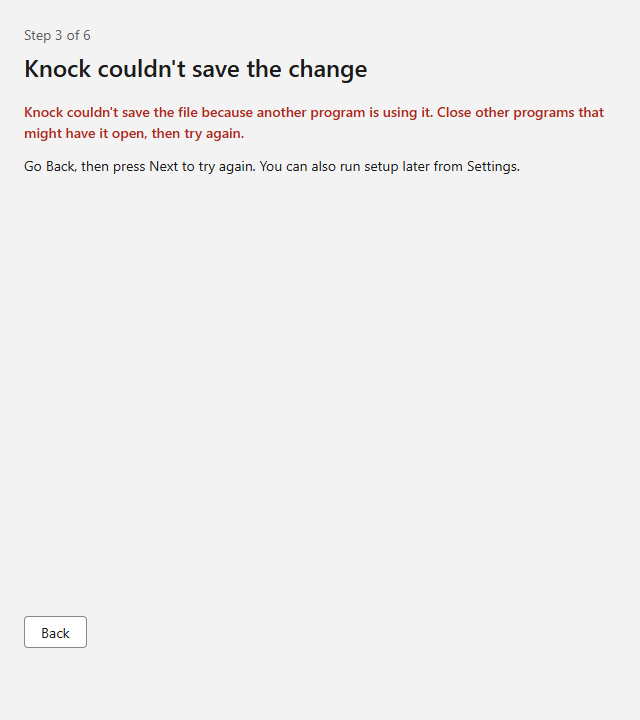
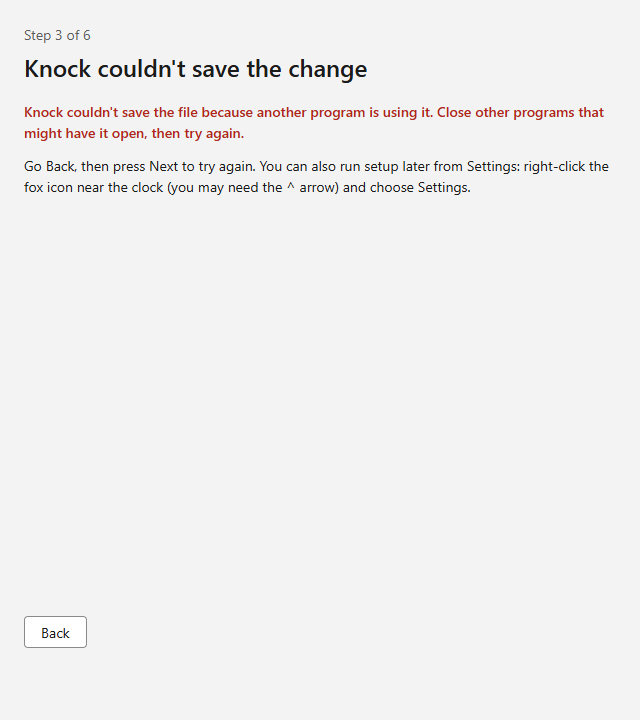
Settings screens: no-backup text, softer wording, tray hint, unique display labels

Changed region(s): [[0.0312, 0.2444, 0.4375, 0.275], [0.4688, 0.2444, 0.7188, 0.275], [0.8125, 0.2139, 0.9375, 0.2444]]

diff --git a/apps/desktop/ui/settings/visual/settings.visual.ts b/apps/desktop/ui/settings/visual/settings.visual.ts
@@ -80,6 +80,7 @@ const SCREENS: [string, string, string[]][] = [
 	["connect-invalid-json", "preview=invalid", ["Start", "Next"]],
 	["connect-write-failed", "apply=fail", TO_SIGNIN.slice(0, 3)],
 	["connected", "", TO_SIGNIN.slice(0, 3)],
+	["connected-no-backup", "empty=1", TO_SIGNIN.slice(0, 3)],
 	["signin", "", TO_SIGNIN],
 	["test", "", TO_TEST],
 	["test-played", "", [...TO_TEST, "Play a test knock"]],
@@ -151,16 +152,34 @@ test("setup skips the taskbar step with one display", async ({ page }) => {
 test("choosing a taskbar saves it right away", async ({ page }) => {
 	await open(page, "setup=1");
 	await click(page, "Start");
-	await page.getByLabel("Display 2, 1920 × 1080").check();
+	await page.getByLabel("Display 3: Generic PnP Monitor, 1920 × 1080").check();
 	expect(await calls(page)).toContainEqual([
 		"update_settings",
-		{ patch: { monitor: "monitor-BOE0A1C-2" } },
+		{ patch: { monitor: "monitor-GSM5B7F-3" } },
 	]);
 	await page.getByLabel("DELL U2720Q (main display), 2560 × 1440").check();
 	expect(await calls(page)).toContainEqual([
 		"update_settings",
 		{ patch: { monitor: "primary" } },
 	]);
+});
+
+test("no settings file before: says there was nothing to back up", async ({
+	page,
+}) => {
+	await open(page, "setup=1&monitors=1&empty=1");
+	await click(page, "Start");
+	await expect(
+		page.getByText("This file doesn't exist yet, so Knock will create it."),
+	).toBeVisible();
+	await click(page, "Confirm and connect");
+	await heading(page, "Knock is connected to Claude Code");
+	await expect(
+		page.getByText(
+			"There was no settings file yet, so there was nothing to back up.",
+		),
+	).toBeVisible();
+	await expect(page.locator(".path")).toHaveCount(0);
 });
 
 test("invalid JSON: the message, Back, and nothing written", async ({
@@ -204,6 +223,7 @@ test("the whole setup by keyboard alone; focus moves to each new screen", async 
 	await focused("Connect Knock to Claude Code");
 	await press("Confirm and connect");
 	await focused("Knock is connected to Claude Code");
+	await expect(page.locator(".path")).toHaveText(/backups\\settings\./);
 	await press("Next");
 	await press("No, I'll start it myself");
 	await focused("Try a test knock");
@@ -216,6 +236,11 @@ test("the whole setup by keyboard alone; focus moves to each new screen", async 
 			"already open connect within about 10 seconds; no restart needed",
 		),
 	).toBeVisible();
+	await expect(
+		page.getByText(
+			"right-click the fox icon near the clock (you may need the ^ arrow) and choose Settings",
+		),
+	).toBeVisible();
 	await press("Finish");
 	// The mock has no window to close, so the app shows Settings instead.
 	await heading(page, "Knock Settings");
@@ -223,7 +248,7 @@ test("the whole setup by keyboard alone; focus moves to each new screen", async 
 	const sent = await calls(page);
 	expect(sent).toContainEqual([
 		"update_settings",
-		{ patch: { monitor: "monitor-BOE0A1C-2" } },
+		{ patch: { monitor: "monitor-GSM5B7F-2" } },
 	]);
 	expect(sent).toContainEqual([
 		"update_settings",

diff --git a/apps/desktop/ui/settings/Setup.tsx b/apps/desktop/ui/settings/Setup.tsx
@@ -137,7 +137,7 @@ export function Setup({ status, settings, update, onLeave, onFinish }: Props) {
 									checked={chosen === m}
 									onChange={() => void choose({ monitor: monitorValue(m) })}
 								/>
-								{monitorLabel(m, i)}
+								{monitorLabel(m, i, monitors)}
 							</label>
 						))}
 					</fieldset>
@@ -167,7 +167,7 @@ export function Setup({ status, settings, update, onLeave, onFinish }: Props) {
 						)}
 						<p>
 							Go Back, then press Next to try again. You can also run setup
-							later from Settings.
+							later from Settings: {OPEN_SETTINGS}
 						</p>
 					</Screen>
 				);
@@ -186,11 +186,7 @@ export function Setup({ status, settings, update, onLeave, onFinish }: Props) {
 						}
 					>
 						<p role="status">Your Claude Code settings file was updated.</p>
-						<p>
-							A copy of the file from before the change was saved here, in case
-							you ever need it:
-						</p>
-						<p className="path">{c.backup}</p>
+						<Backup path={c.backup} />
 					</Screen>
 				);
 			return (
@@ -229,7 +225,7 @@ export function Setup({ status, settings, update, onLeave, onFinish }: Props) {
 							Knock only learns what kind of moment happened. It never sees your
 							messages, your code, or what Claude Code writes.
 						</li>
-						<li>Everything else in the file stays exactly as it is.</li>
+						<li>Everything else in the file keeps its settings and values.</li>
 						<li>Knock saves a copy of the file before changing it.</li>
 						<li>
 							You can remove Knock from Claude Code at any time in Settings.
@@ -384,11 +380,30 @@ export function Setup({ status, settings, update, onLeave, onFinish }: Props) {
 					</p>
 					<p>
 						To change anything, or to remove Knock from Claude Code, open
-						Knock's Settings.
+						Settings: {OPEN_SETTINGS}
 					</p>
 				</Screen>
 			);
 	}
+}
+
+/** Settings opens from the tray menu; the icon may sit in the overflow behind the ^ arrow. */
+export const OPEN_SETTINGS =
+	"right-click the fox icon near the clock (you may need the ^ arrow) and choose Settings.";
+
+/** Where the core saved the old file. An empty path means there was no file to back up (§8.2). */
+export function Backup({ path }: { path: string }) {
+	return path ? (
+		<>
+			<p>
+				A copy of the file from before the change was saved here, in case you
+				ever need it:
+			</p>
+			<p className="path">{path}</p>
+		</>
+	) : (
+		<p>There was no settings file yet, so there was nothing to back up.</p>
+	);
 }
 
 /** One setup screen. The heading takes focus on each new screen, so Narrator reads it. */

diff --git a/apps/desktop/ui/settings/dev/mock.ts b/apps/desktop/ui/settings/dev/mock.ts
@@ -3,13 +3,13 @@
 //
 // URL parameters:
 //   setup=1                 start the setup flow (as the core's `?setup=1`)
-//   monitors=1|2            displays connected; default 2
+//   monitors=1|2|3          displays connected; default 3
 //   installed=1             Knock's hooks are already in the Claude Code settings file
 //   preview=invalid         the settings file isn't valid JSON
 //   apply=fail              writing the file fails
 //   save=fail               update_settings rejects every change
 //   knock=fail              play_test_knock rejects
-//   empty=1                 the settings file doesn't exist yet
+//   empty=1                 the settings file doesn't exist yet, so there is no backup
 // Every call is logged under the page and kept in `window.__calls`.
 import type { Settings } from "../../overlay/bridge";
 import type { Check, Monitor } from "../core";
@@ -42,14 +42,22 @@ const monitors: Monitor[] = [
 		width: 2560,
 		height: 1440,
 	},
+	// Windows names many displays alike; the labels number these two.
 	{
-		id: "monitor-BOE0A1C-2",
-		name: "",
+		id: "monitor-GSM5B7F-2",
+		name: "Generic PnP Monitor",
 		primary: false,
 		width: 1920,
 		height: 1080,
 	},
-].slice(0, q.get("monitors") === "1" ? 1 : 2);
+	{
+		id: "monitor-GSM5B7F-3",
+		name: "Generic PnP Monitor",
+		primary: false,
+		width: 1920,
+		height: 1080,
+	},
+].slice(0, Number(q.get("monitors") ?? 3));
 
 const PATH = String.raw`C:\Users\Sam\.claude\settings.json`;
 const userFile = {
@@ -169,8 +177,9 @@ const commands: Record<string, (args: Record<string, unknown>) => unknown> = {
 				message:
 					"Knock couldn't save the file because another program is using it. Close other programs that might have it open, then try again.",
 			};
+		const backup = before() === "" ? "" : BACKUP;
 		installed = true;
-		return { ok: true, backup: BACKUP };
+		return { ok: true, backup };
 	},
 	setup_remove_hooks: () => {
 		installed = false;

diff --git a/apps/desktop/ui/settings/SettingsPage.tsx b/apps/desktop/ui/settings/SettingsPage.tsx
@@ -20,7 +20,7 @@ import {
 	quietHoursPatch,
 	selectedMonitor,
 } from "./flow";
-import type { Update } from "./Setup";
+import { Backup, type Update } from "./Setup";
 
 interface Props {
 	settings: Settings;
@@ -47,7 +47,7 @@ export function SettingsPage({ settings: s, update, onRunSetup }: Props) {
 						help="Which display's taskbar Knock rests on."
 						options={monitors.map((m, i) => ({
 							value: monitorValue(m),
-							label: monitorLabel(m, i),
+							label: monitorLabel(m, i, monitors),
 						}))}
 						value={chosen ? monitorValue(chosen) : ""}
 						onChange={(monitor) => update({ monitor })}
@@ -327,7 +327,7 @@ function Connection({ onRunSetup }: { onRunSetup(): void }) {
 				<ul>
 					<li>
 						Knock deletes only its own entries from your Claude Code settings
-						file. Everything else stays exactly as it is.
+						file. Everything else in the file keeps its settings and values.
 					</li>
 					<li>Knock saves a copy of the file before changing it.</li>
 					<li>
@@ -360,10 +360,7 @@ function Connection({ onRunSetup }: { onRunSetup(): void }) {
 					(removal.result.ok ? (
 						<div role="status">
 							<p>Knock was removed from Claude Code.</p>
-							<p>
-								A copy of the file from before the change was saved here:{" "}
-								<span className="path">{removal.result.backup}</span>
-							</p>
+							<Backup path={removal.result.backup} />
 						</div>
 					) : (
 						<p className="error" role="alert">

diff --git a/apps/desktop/ui/settings/flow.test.ts b/apps/desktop/ui/settings/flow.test.ts
@@ -185,6 +185,26 @@ test("taskbar choice: the main display is stored as primary", () => {
 	]);
 });
 
+test("taskbar labels: repeated names always show the resolution; exact twins are numbered", () => {
+	const g = "Generic PnP Monitor";
+	const ms: Monitor[] = [
+		{ id: "A", name: g, primary: true, width: 1920, height: 1080 },
+		{ id: "B", name: g, primary: false, width: 1920, height: 1080 },
+		{ id: "C", name: g, primary: false, width: 2560, height: 1440 },
+		{ id: "D", name: "", primary: false, width: 1920, height: 1080 },
+		{ id: "E", name: " ", primary: false, width: 1920, height: 1080 },
+	];
+	const labels = ms.map(monitorLabel);
+	expect(labels).toEqual([
+		"Display 1: Generic PnP Monitor (main display), 1920 × 1080",
+		"Display 2: Generic PnP Monitor, 1920 × 1080",
+		"Generic PnP Monitor, 2560 × 1440",
+		"Display 4, 1920 × 1080",
+		"Display 5, 1920 × 1080",
+	]);
+	expect(new Set(labels).size).toBe(labels.length);
+});
+
 test("line diff: exact, with every line of both files accounted for", () => {
 	const before = '{\n  "model": "opus"\n}\n';
 	const after = '{\n  "model": "opus",\n  "hooks": {}\n}\n';

diff --git a/apps/desktop/ui/settings/flow.ts b/apps/desktop/ui/settings/flow.ts
@@ -159,9 +159,26 @@ export function selectedMonitor(
 	);
 }
 
-export function monitorLabel(m: Monitor, index: number): string {
-	const name = m.name.trim() || `Display ${index + 1}`;
-	return `${name}${m.primary ? " (main display)" : ""}, ${m.width} × ${m.height}`;
+/**
+ * Windows' display names can repeat ("Generic PnP Monitor"), so the resolution always shows,
+ * and displays alike in name and resolution are numbered by their place in the list.
+ */
+export function monitorLabel(
+	m: Monitor,
+	index: number,
+	all: readonly Monitor[],
+): string {
+	const name = m.name.trim();
+	const twin = all.some(
+		(o) =>
+			o !== m &&
+			o.name.trim() === name &&
+			o.width === m.width &&
+			o.height === m.height,
+	);
+	const number = `Display ${index + 1}`;
+	const title = !name ? number : twin ? `${number}: ${name}` : name;
+	return `${title}${m.primary ? " (main display)" : ""}, ${m.width} × ${m.height}`;
 }
 
 // --- The exact change, line by line ---
